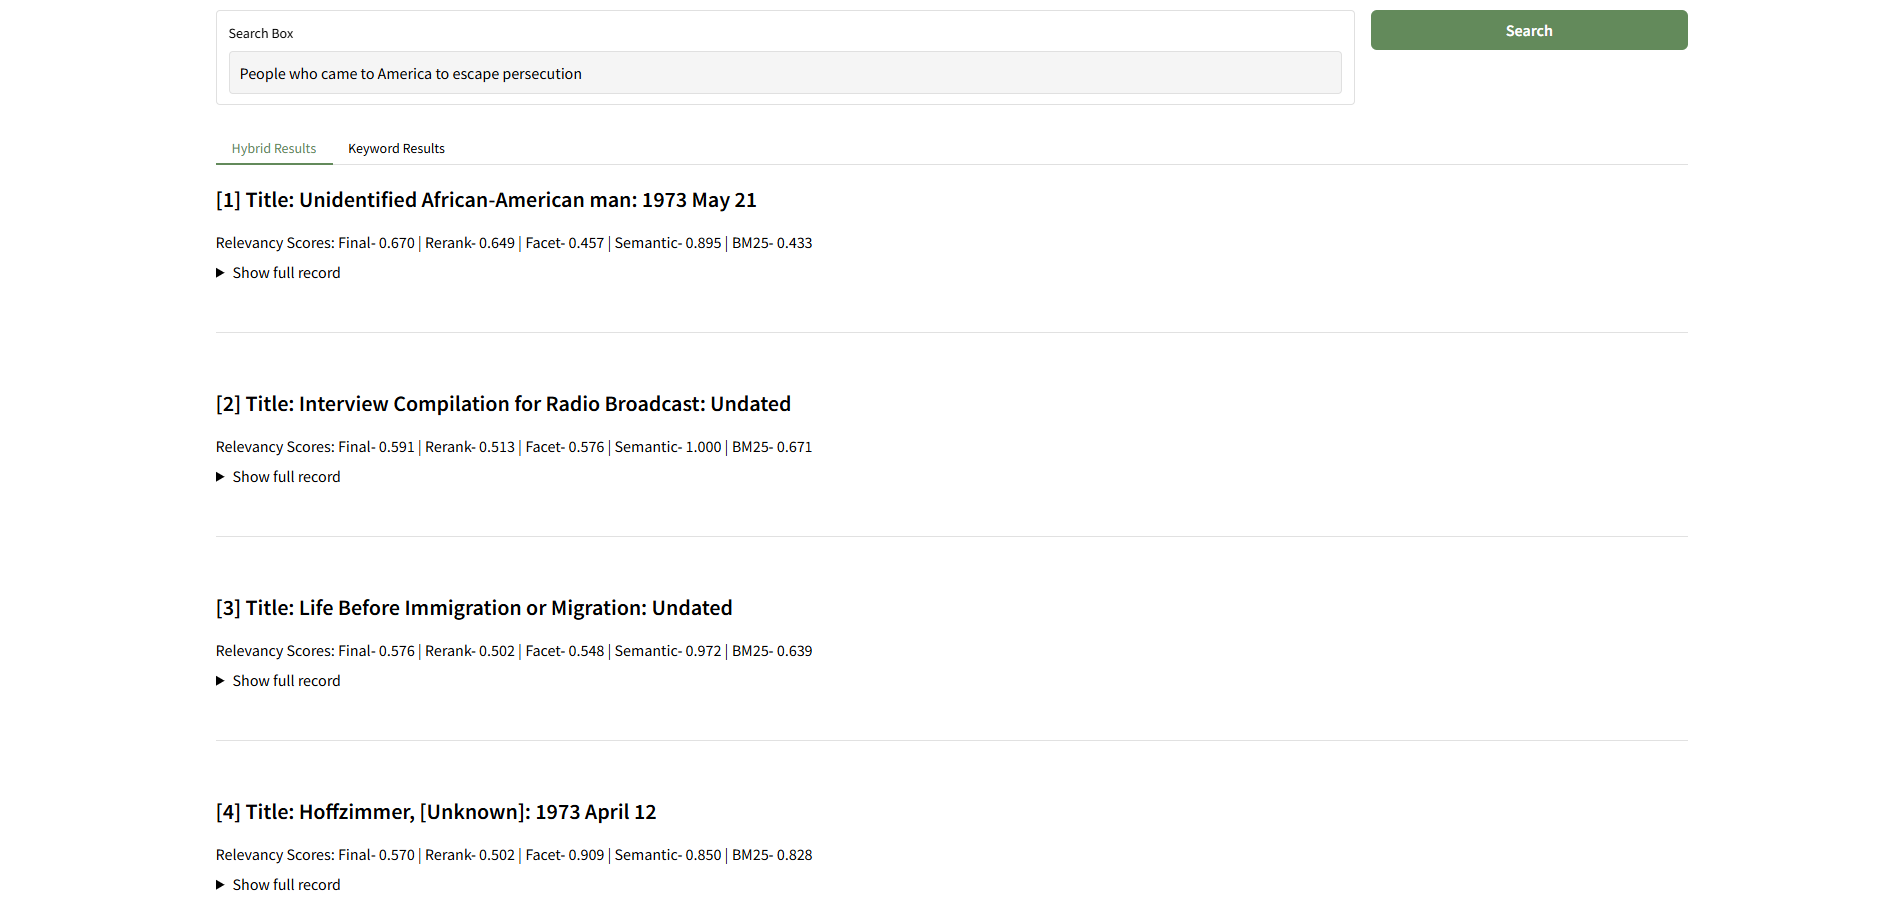
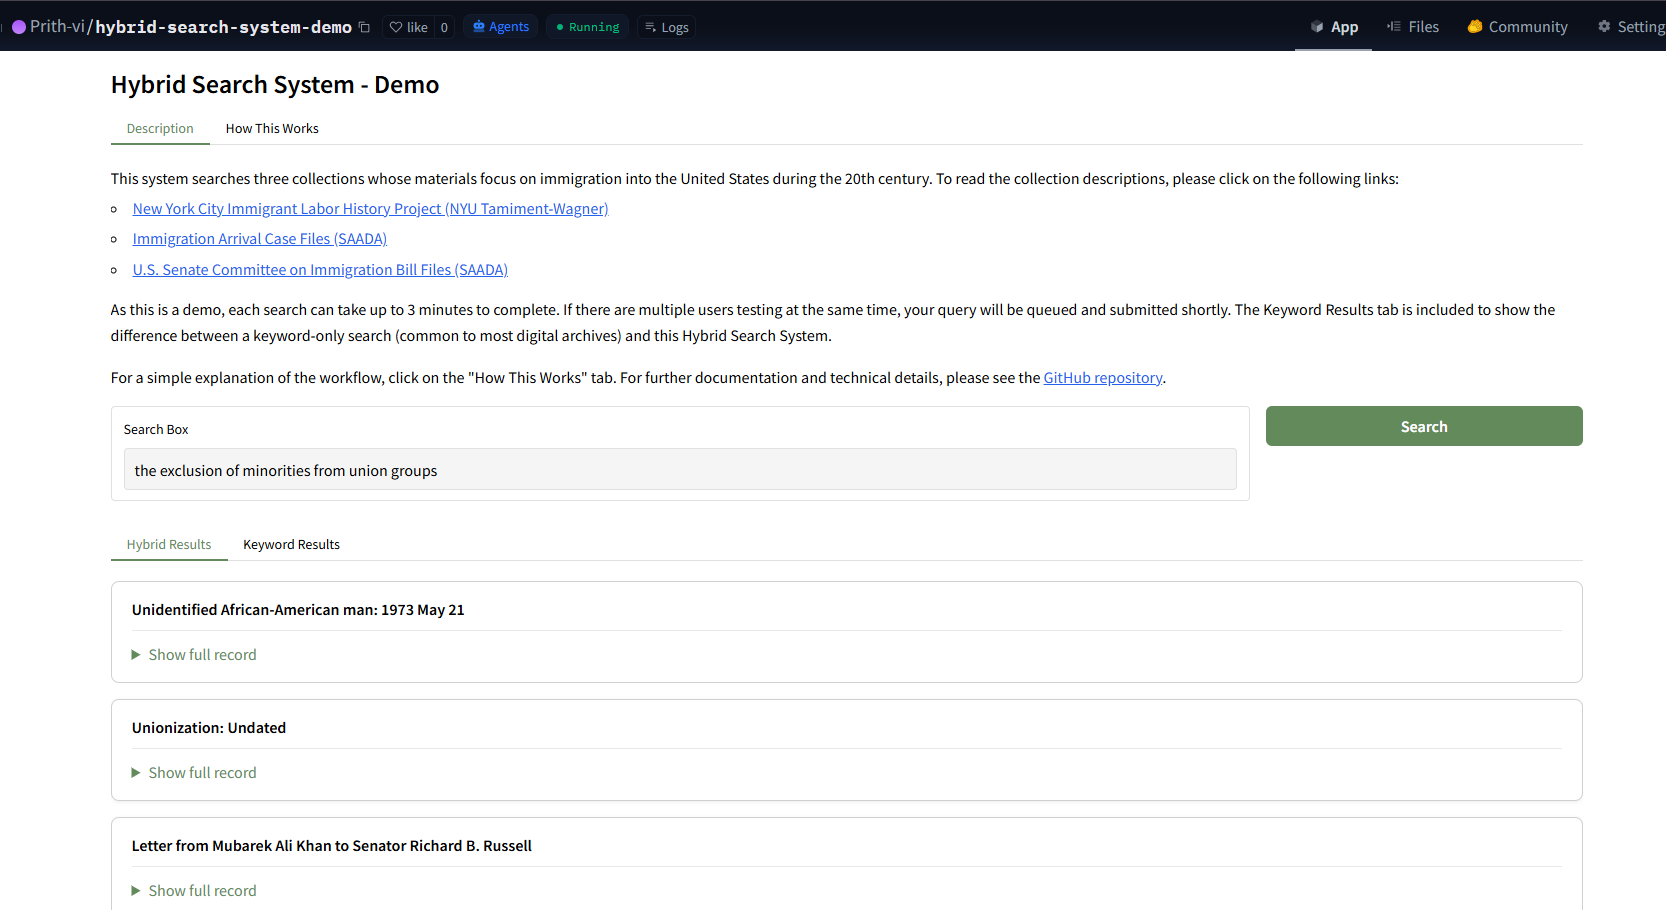
graduation + capstone update

diff --git a/_pages/about.md b/_pages/about.md
@@ -9,13 +9,13 @@ profile:
   image: prof_pic.jpg
   image_circular: false # crops the image to make it circular
   more_info: >
-    <p>prithvi.dineshchandra@gmail.com | pdc307@nyu.edu</p>
+    <p>prithvi.dineshchandra@gmail.com</p>
 
 selected_papers: false # includes a list of papers marked as "selected={true}"
 social: true # includes social icons at the bottom of the page
 ---
-Prithvi (he/him) is a second-year graduate student in NYU's Archives and Public History program (May 2026 completion). He focuses on digital archives & collections, identifying methods of ensuring access and discoverability for all without sacrificing context and nuance. Currently, he is the Digital Scholarship Specialist in NYU Libraries' Open Knowledge division, and the Metadata Assistant at Film Comment Magazine.
- 
-Born and raised in Singapore, Prithvi arrived in the United States in 2019 to pursue a B.A. from Occidental College in Los Angeles, and graduated in 2023 with a double-major in History and Diplomacy & World Affairs. He focused on developing archives and museum experience in the subsequent year, working across multiple instituions in Los Angeles before moving to New York City for graduate school.
+Prithvi (he/him) is a recent graduate from NYU's Archives and Public History program. He is a trained archivist with experience in digitization, preservation, and processing. His interest lie in digital archives & collections, specifically in identifying methods of ensuring access and discoverability for *all* without sacrificing context and nuance. 
+
+Born and raised in Singapore, Prithvi arrived in the United States in 2019 to pursue a B.A. from Occidental College in Los Angeles, and graduated in 2023 with a double-major in History and Diplomacy & World Affairs. Since then, he was worked across a myriad of instiutitons and repositories including New York Historical, LACMA, NYU Libraries, and NHMLAC. He is currently based in NYC and open to work. 
 
 When he is not wading around in metadata, Prithvi volunteers at [XFR Collective](https://xfrcollective.org/), a non-profit organization that works towards lowering the barriers to preserving at-risk audiovisual media. In his free time, you can find him bouldering at the local climbing gym, playing football (as in futbol), or hanging out with his cat, Dirt.

diff --git a/_pages/teaching.md b/_pages/teaching.md
@@ -2,7 +2,7 @@
 layout: page
 permalink: /capstone/
 title: hybrid search system
-description: A description of my Capstone Project for NYU's Archives and Public History MA Program.
+description: A brief description of my Capstone Project for NYU's Archives and Public History MA Program.
 nav: true
 nav_order: 6
 ---
@@ -28,4 +28,4 @@ The top candidates from the hybrid scoring step are passed through a cross-encod
                             
 This multi-stage approach captures both the *intent* behind the query and the *specific terms* used, producing more relevant results than either method alone.
 
-*This project is currently under closed beta testing to ensure data privacy. To request access, please contact prithvi.dineshchandra@gmail.com or pdc307@nyu.edu*
+[Github Repository](https://github.com/prithvidineshchandra/Hybrid-Search-System) | [Project Site](https://huggingface.co/spaces/Prith-vi/hybrid-search-system-demo)
